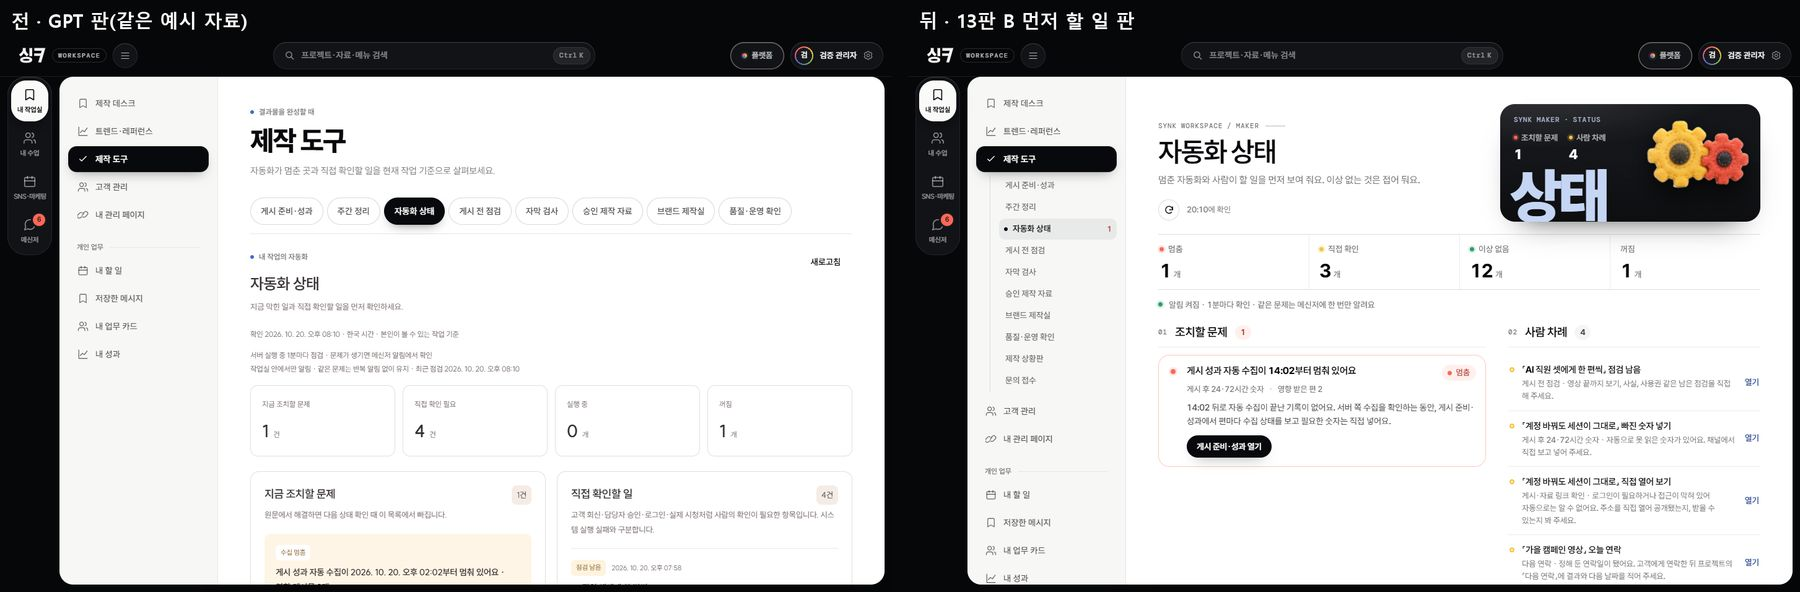
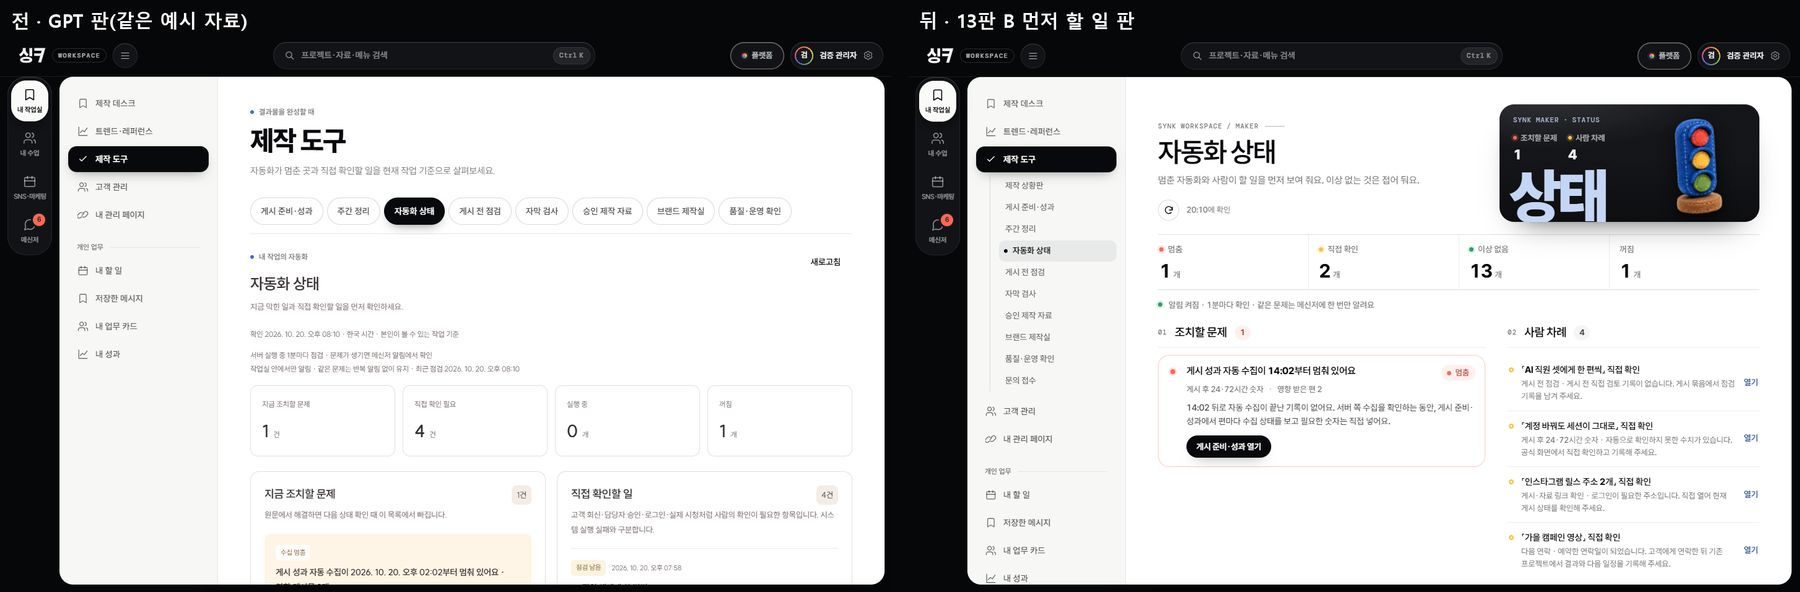
feat(제작 도구 13판): 자동화 상태 펠트를 톱니에서 신호등으로 다시 굽고, 톱니 전용 포스터 칸을 걷는다
- 유호님 10-21 완성 사진에 「오우 훨씬 좋아」, 「톱니펠트그림은 다시 굽고」. 톱니는 「설정」으로 읽혔다(13판 시안 Fable P3)
- 신호등 · 계기 바늘 · 신호탑 · 제어반을 GPT 이미지 2.5로 흰 바탕 한 판(2×2, 앞 8장 판을 생김새 참고)에 굽고 tools/펠트_흰바탕오리기.py --판=2x2로 오려 신호등을 골랐다(215×440, 34,726B). 세 등 색(위부터 코랄 · 버터 · 초록)이 계기판 점 색(멈춤 · 직접 확인 · 이상 없음)과 같다. 제어반은 손잡이가 조이스틱처럼 나와 뺐다
- maker-tools.css: 넓은 톱니에 맞춘 자동화 전용 포스터 칸 넷(포스터 · 지금 할 일 · 860px · 700px 지금 할 일 선택자)을 걷어 다른 탭과 같은 기본 칸을 쓰고, 아르곤 P3대로 700px 포스터 줄의 쓸모없어진 top:auto · object-position을 뺐다(승인 제작 자료 덮어쓰기를 이기는 두 번째 선택자는 남김)
- 문서: SOURCES.md 8장 줄에 바꾼 까닭 · 원판 위치(판3_자동화신호등), 설계 README 13판 절의 물건 목록 · 톱니 줄, 전후 · 휴대폰 사진의 자동화 상태 칸을 신호등 판으로, 트랙 13판 줄(GPT 검수 결과 · 운영 이력 23 대기 · 신호등) · 결정 표 근거
- GPT 검수(13판 서버 13파일 · 시험 24파일, 본 계정): 「그대로 운영 반영해도 됨, 지적 없음」. 두 탭 서버 파일은 2차 검수 진행 중
- 확인: 네 폭(1440 · 1024 · 820 · 390) 콘솔 오류 · 가로 넘침 0, 그림이 숫자 · 큰 글자와 겹치지 않음(실측), 관련 회사 시험 300/300. 검수 아르곤 P3 1(반영) · Fable 최종 「사용자에게 보여도 됨」(P3 2 중 문서 줄 반영, 넓은 화면 오른쪽 여백은 그대로)
- 운영 반영은 아직 안 함 — 유호님 「올려」(10-21 11:4x)로 회사 HA 이력 23에 줄 섬(22 armed 뒤)

diff --git a/docs/마케팅/온라인마케팅지도/engagement/company/public/maker-tools.css b/docs/마케팅/온라인마케팅지도/engagement/company/public/maker-tools.css
@@ -83,7 +83,6 @@
 :root .synk-workspace .mt .mt-poster-stats dd{font-size:22px;line-height:1;font-weight:var(--w-title);letter-spacing:-.02em;color:#fff;white-space:nowrap}
 :root .synk-workspace .mt .mt-poster-word{position:absolute;left:16px;bottom:-.02em;z-index:2;font:900 96px/.9 SUIT,var(--mt-sans);letter-spacing:-.065em;color:var(--mt-on-face);pointer-events:none;user-select:none;white-space:nowrap}
 :root .synk-workspace .mt .mt-poster-art{position:absolute;right:20px;bottom:12px;z-index:3;display:block;width:160px;height:156px;object-fit:contain;object-position:50% 100%;transform:rotate(-3deg);filter:drop-shadow(0 18px 18px rgba(0,0,0,.5)) drop-shadow(0 4px 6px rgba(0,0,0,.35));pointer-events:none;user-select:none}
-:root .synk-workspace .mt .mt-poster[data-mt-poster=automation] .mt-poster-art{right:18px;bottom:auto;top:24px;width:166px;height:112px;object-position:100% 0}
 :root .synk-workspace .mt .mt-poster[data-mt-poster=sources] .mt-poster-art{width:176px;height:150px}
 
 /* ── 단추 · 링크 ── */
@@ -355,7 +354,6 @@
 :root .synk-workspace .mt .mt-now.is-poster .mt-actions .mt-link{color:var(--mt-on-face)}
 :root .synk-workspace .mt .mt-now.is-poster .mt-now-word{position:absolute;right:14px;bottom:-.06em;z-index:1;font:900 92px/.9 SUIT,var(--mt-sans);letter-spacing:-.065em;color:var(--mt-on-face);pointer-events:none;user-select:none;white-space:nowrap}
 :root .synk-workspace .mt .mt-now.is-poster .mt-now-art{position:absolute;right:34px;bottom:74px;z-index:2;width:112px;height:98px;object-fit:contain;object-position:50% 100%;transform:rotate(-3deg);filter:drop-shadow(0 14px 14px rgba(0,0,0,.5)) drop-shadow(0 3px 5px rgba(0,0,0,.35))}
-:root .synk-workspace .mt .mt-now.is-poster[data-mt-poster=automation] .mt-now-art{width:136px;height:94px}
 
 /* ── 입력 칸 ── */
 :root .synk-workspace .mt .mt-form{display:grid;gap:14px}
@@ -419,7 +417,6 @@
 /* ── 좁을 때 ── */
 @container mt (max-width:860px){
   :root .synk-workspace .mt .mt-desk{--mt-list-w:262px}
-  :root .synk-workspace .mt .mt-poster[data-mt-poster=automation] .mt-poster-art{width:128px;height:88px}
   :root .synk-workspace .mt .mt-head{grid-template-columns:minmax(0,1fr) minmax(250px,340px)}
   :root .synk-workspace .mt .mt-poster-word{font-size:80px}
   :root .synk-workspace .mt .mt-poster-art{width:140px;height:132px}
@@ -442,7 +439,7 @@
   :root .synk-workspace .mt .mt-poster-stats{left:16px;top:36px;gap:14px}
   :root .synk-workspace .mt .mt-poster-stats dd{font-size:19px}
   :root .synk-workspace .mt .mt-poster-word{left:12px;font-size:52px}
-  :root .synk-workspace .mt .mt-poster-art,:root .synk-workspace .mt .mt-poster[data-mt-poster] .mt-poster-art{right:12px;bottom:10px;top:auto;width:96px;height:96px;object-position:50% 100%}
+  :root .synk-workspace .mt .mt-poster-art,:root .synk-workspace .mt .mt-poster[data-mt-poster] .mt-poster-art{right:12px;bottom:10px;width:96px;height:96px}
   :root .synk-workspace .mt .mt-meter{margin-bottom:20px}
   :root .synk-workspace .mt .mt-meter>*{padding:10px 6px 11px 9px;gap:7px}
   :root .synk-workspace .mt .mt-meter>:first-child{padding-left:0}
@@ -481,7 +478,7 @@
   :root .synk-workspace .mt .mt-now.is-poster .mt-now-copy{padding-right:92px}
   :root .synk-workspace .mt .mt-now.is-poster h3{font-size:17.5px}
   :root .synk-workspace .mt .mt-now.is-poster .mt-now-word{display:none}
-  :root .synk-workspace .mt .mt-now.is-poster .mt-now-art,:root .synk-workspace .mt .mt-now.is-poster[data-mt-poster=automation] .mt-now-art{top:16px;right:14px;bottom:auto;width:84px;height:74px}
+  :root .synk-workspace .mt .mt-now.is-poster .mt-now-art{top:16px;right:14px;bottom:auto;width:84px;height:74px}
   :root .synk-workspace .mt .mt-steps li{font-size:0}
   :root .synk-workspace .mt .mt-steps li[data-s=now]{font-size:12px;overflow:visible}
   :root .synk-workspace .mt .mt-steps li[data-s=now]:last-child{align-items:flex-end}

diff --git a/docs/_ops/트랙.md b/docs/_ops/트랙.md
@@ -213,7 +213,7 @@
   - **마케팅·설정·SNS 남은 글 다시 쓰기(10-20~21, Claude · origin 반영, 운영 반영 전):** 회사 `app.js`의 마케팅 현황·하이라이트·분석·채널과 수집·연결 창·담당자 바꾸기·팀과 크루·설정 글과 `social-workspace.js`에 남은 ID·큐·슬롯·Postiz·CSV·UTM, `benchmark.js`(사람·AI 도구 이름)·`comparison-charts.js`를 짝 621개로 바꿨다(app.js 합니다체 60·「이관」 15·OAuth·API·CSV 12 → 0). 채널 카드 「이력」이 없는 함수를 불러 오류만 띄우던 것을 「담당 기록」 서랍으로 되살렸다. 아르곤 49건(반영 38·부분 3) · Fable 23건(P0·P1 0, 반영 15 · 재확인 「그대로 두면 됨」), 회사 4,054개·루트 2,136개 코드 탓 실패 0, 합성 계정 1440·390 전후 34쌍·70화면 오류·넘침 0 — [README](../디자인/워크스페이스_시그널/README.md#marketing-copy-20261020), 맵·검수 기록 `.tmp/marketing-copy-20261020/`. 꼬리 정리 커밋 `f81c24989`(SNS 합본·PULSE 자동 안내)가 먼저 들어와 그 위에 맵을 다시 돌려 얹었다. **GPT 검수 범위(백엔드, `e9eb56419`와 Fable 반영 커밋):** 회사 `collectors.mjs`·`collection-policy.mjs`·`server.mjs`·`oauth.mjs`·`organization.mjs`·`store.mjs`·`hype.mjs`·`meta-connection.mjs`·`team-trends.mjs`·`demo-service.mjs`·`benchmarks.mjs`·`social-ai-copy.mjs`·`social-publishing-provider.mjs`·`social-provider.mjs`·`social-replies.mjs` — 화면에 뜨는 오류·상태·안내 글만(짝 221, API 모양·키·상태값·기록에 남는 사유 값 그대로), 운영 반영 안 함. 남은 일: 같은 마케팅 현황의 `growth-home.js`·`growth-history.js`·`team-trends.js`(와 `team-trends.mjs` 표 설명) 본문 낱말(관측·당일·미수집)을 이번 글에 맞추기.
   - **트렌드·레퍼런스·제작 데스크 글 다시 쓰기(10-20, Claude · 백엔드 일부 — GPT 검수 대기, 운영 반영 안 함):** 화면 5파일(`creative-research.js`·`workroom.js`·`content.js`·`studio-board.js`·`studio-review.js`)의 보이는 글 441조각(합니다체 116 → 2)과 같은 화면에 뜨는 서버 글 147조각·「제작 기준」 자료 22문장을 옛→새 짝 17묶음으로 바꿨다 — 회사 시험 3,970개 중 실패 3(워크트리에 없는 git 밖 큰 영상 2개 탓, 코드 탓 0)·루트 2,149/2,149, 1440·390 42화면씩 전후 오류·넘침 0, 아르곤 34건(반영 21)·Fable 30건(반영 29) — [README](../디자인/워크스페이스_시그널/README.md#workroom-copy-20261020). **GPT 검수 범위(같은 커밋):** 회사 `creative-research-sync.mjs`·`creative-research.mjs`·`trend-collectors.mjs`·`daily-trends-service.mjs`·`studio-service.mjs`·`studio-media.mjs`·`content-service.mjs`의 오류·상태 글, `workroom-guide.json`(팁·트렌드 링크·공식 보고서 요약), 시험 `creative-research.test.mjs` — API·코드·한도 그대로이고 참고 자료 조회 404 글만 갈렸다. 남은 것: GPT 가지 `codex/business-automation-20261020` 병합 때 `creative-research.js` 210~212행 충돌 → 짝 01·12·13·14 다시 넣기와 GPT 새 글 다시 쓰기([글짝 README](../디자인/워크스페이스_시그널/글짝_20261020/README.md)), 기획 엔진 글(`content-engine.mjs`·`content-catalog.json`·`benchmark.js`)과 `studio.js` 머리 문장은 후속.
   - **기획 엔진 글 다시 쓰기(10-21, Claude · 백엔드 — GPT 검수 대기, 운영 반영 안 함):** 기획 결과·내려받기 기획안·「제작 기준」 창·데스크 「유형별 기획 양식」의 GPT 글을 옛→새 짝 311개(18~24)로 해요체로 바꿨다 — 엔진 글 「~니다」 505 → 0, 합성 계정 1440·390 29화면 842 → 0(오류·넘침 0), 회사 시험 4,117개 중 실패 3(git 밖 큰 영상 부재, 코드 탓 0)·루트 2,138개 중 실패 1(형제 저장소 SYNK-talk와 갈라진 계약 파일, 이번 변경과 무관), 아르곤 21건(반영 18·일부 3)·Fable 12건(반영 11·확인 1) — [README](../디자인/워크스페이스_시그널/README.md#planning-engine-copy-20261021). **GPT 검수 범위(같은 커밋):** 회사 `content-engine.mjs`·`content-catalog.json`·시험 `content-engine.test.mjs` — API·저장 모양·상태 값 그대로, 바뀐 동작은 받침 조사 꼴·내려받기의 반응 이름과 빈 칸 「안 적음」·참고 분석 「 / 」 잇기·`applyContext`의 쓰지 않는 인자 하나. 이미 저장한 기획안은 옛 글로 남는다(새로 만들거나 「고쳐서 새로 만들기」부터 새 글).
-  - **제작 도구 8탭 13판 — 탭 성격대로 다시 그리기·글(10-20~21, Claude · origin 반영, 운영 반영 전 · 서버 글은 GPT 검수 대기):** 유호님이 고른 「탭 성격대로」로 바꿨다. 편·기록 4탭(게시 준비·성과 · 게시 전 점검 · 브랜드 제작실 · 품질·운영 확인)은 목록+상세, 자동화 상태 · 주간 정리는 먼저 할 일 판, 자막 검사 · 승인 제작 자료는 도구 한 장이다. 넓은 화면은 왼쪽 메뉴 「제작 도구」 아래 하위 줄로 바꿨고, 펠트 물건 8장을 굽고, 화면 「~합니다」를 0으로 만들었다([13판](../디자인/워크스페이스_시그널/README.md#maker-tools-v13-20261020)). 회사 시험 실패는 기준선과 같은 PULSE 큰 파일 셋과 회사 폴더 경로 함정의 content-engine 하나뿐이고, 루트 시험은 모두 통과했다. 8탭 1440·390 전후 촬영은 오류·넘침 0이다. 검수는 아르곤 55건(반영 44) · Fable 최종 「보여도 됨, P1 없음」(P2 7 중 6 반영·1 오탐)이다. **GPT 검수 범위(백엔드):** 같은 커밋의 서버 12파일 글(옛→새 짝 맵 — automation-health · weekly-summary · publication-workflow · publication-link-check · post-performance · publication-learning · publication-inbox · publication-review · publication-package · brand-quality-service · creator-reviews · creator-sources)과 시험 짝 14파일이다. API 모양·키·상태값은 그대로이고, `publication-link-check`의 저장되는 확인 글 둘도 해요체로 바꿨다(옛 기록은 다음 확인 때 바뀜). 운영 반영은 안 했다(회사 HA 릴리스로 따로, 유호님 「올려」 뒤). 뒤따름(10-21): 손으로 돌리는 브라우저 점검 `qa/verify-automation-stale-warning.mjs`·`qa/verify-workspace-repaint.mjs`·`qa/verify-deeplink-focus.mjs`를 새 판 구조로 바꿔 9/9 · 13/13 · 5/5 통과했다(깊은 링크는 13판 기록 양식이 900px 첫 화면 안이라 700px로 낮춰 스크롤 유지를 본다). 서버 안내 글 세 곳(`automation-health.mjs` 성과 수집 안내)이 가리키던 옛 하위 탭 「게시 후 성과」를 「게시 준비·성과」로 고쳤고(같은 GPT 검수 범위), 게시 전 점검 9칸 질문(`workroom-guide.json`, 「~한가?」)을 해요체로 맞췄다(기록은 id로만 묶여 있어 그대로, 같은 「기획·검토 양식」 복사의 「잴 지표·조건」 줄도 「확인할 지표·조건」으로). 두 탭 더(10-21, Claude · origin 반영, 운영 반영 전): 사업 자동화가 더한 「제작 상황판」·「문의 접수」를 같은 문법(둘 다 목록+상세)으로 다시 그렸다. 제작 상황판은 검토실(버전 · 의견)을 상세 안으로 넣어 맨 앞에, 문의 접수(관리자만)는 맨 끝에 뒀고 펠트 2장(감독 의자 · 호출 종)을 구웠다([두 탭](../디자인/워크스페이스_시그널/README.md#maker-tools-v13-two-tabs-20261021)). 확인·검수: 관련 회사 시험 1,861개 중 1,860 통과(실패 1은 기준선과 같은 PULSE 영상 파일), 회사 전체 · 루트 실패는 기준선과 같은 것과 한꺼번에 돌릴 때만 나는 셋뿐, 브라우저 점검 셋 통과, 1440 · 390 촬영 17장 오류 · 넘침 0. 검수는 아르곤 42건(반영 38) · Fable 최종 「보여도 됨」(P2 4 · P3 6 반영). **GPT 검수 범위(백엔드):** 같은 커밋의 `website-inquiry-service.mjs` · `website-inquiry-google.mjs` · `studio-service.mjs` 관리자 화면 글 53문장(분류 근거 · 다음 할 일 · 오류, 시험 짝은 HEAD 문장 → 지금 문장), 저장된 옛 분류 글을 보일 때만 새 글로 바꾸는 `websiteInquiryClassificationView`, 시험 짝 `website-inquiry.test.mjs`다. API 모양 · 상태값 · 고객용 답장 초안 · 양식 동의 문장은 그대로다. 두 탭에서 뒤따를 것: 8탭 공통으로 휴대폰에서 접힌 구역 요약이 숨는 규칙(`maker-tools.css`) 다시 보기, 기획 화면 팀 예시(`swExamplesPage`)의 글 · 단추. 남은 것: 톱니 펠트 다시 굽기 후보(유호님이 보고 정할 일).
+  - **제작 도구 8탭 13판 — 탭 성격대로 다시 그리기·글(10-20~21, Claude · origin 반영 · 운영은 회사 HA 이력 23 대기(유호님 「올려」 10-21 11:4x) · 서버 글 GPT 검수: 8탭 끝, 두 탭 진행 중):** 유호님이 고른 「탭 성격대로」로 바꿨다. 편·기록 4탭(게시 준비·성과 · 게시 전 점검 · 브랜드 제작실 · 품질·운영 확인)은 목록+상세, 자동화 상태 · 주간 정리는 먼저 할 일 판, 자막 검사 · 승인 제작 자료는 도구 한 장이다. 넓은 화면은 왼쪽 메뉴 「제작 도구」 아래 하위 줄로 바꿨고, 펠트 물건 8장을 굽고, 화면 「~합니다」를 0으로 만들었다([13판](../디자인/워크스페이스_시그널/README.md#maker-tools-v13-20261020)). 회사 시험 실패는 기준선과 같은 PULSE 큰 파일 셋과 회사 폴더 경로 함정의 content-engine 하나뿐이고, 루트 시험은 모두 통과했다. 8탭 1440·390 전후 촬영은 오류·넘침 0이다. 검수는 아르곤 55건(반영 44) · Fable 최종 「보여도 됨, P1 없음」(P2 7 중 6 반영·1 오탐)이다. **GPT 검수 범위(백엔드):** 같은 커밋의 서버 12파일 글(옛→새 짝 맵 — automation-health · weekly-summary · publication-workflow · publication-link-check · post-performance · publication-learning · publication-inbox · publication-review · publication-package · brand-quality-service · creator-reviews · creator-sources)과 시험 짝 14파일이다. API 모양·키·상태값은 그대로이고, `publication-link-check`의 저장되는 확인 글 둘도 해요체로 바꿨다(옛 기록은 다음 확인 때 바뀜). **GPT 검수(10-21, 본 계정 · 위 13파일과 시험 24파일, 뒤따름 포함):** 「그대로 운영 반영해도 됨, 지적 없음」 — 옛·새 글을 저장소 전체에서 찾아 소비자를 보고, 저장되는 확인 글과 알림 중복은 메모리 저장소로 따로 돌려 확인했다(시험 489 통과, 못 돈 3은 검수 사본에 `tools/lib`가 없던 탓). 보고에 적힌 「`${max}`가 빠진 길이 오류 글 두 곳」(`publication-inbox`·`publication-package`)은 화면 입력칸이 같은 한도로 막고 있어 그대로 둔다(Claude 확인). 운영 반영: 유호님 「올려」(10-21 11:4x) — 회사 HA **이력 23**으로 줄 섰다(18 → 22 뒤, 22 armed 전 원격 0, `.tmp/company-ha-release-order-20261020.md` 「이력 23」). 뒤따름(10-21): 손으로 돌리는 브라우저 점검 `qa/verify-automation-stale-warning.mjs`·`qa/verify-workspace-repaint.mjs`·`qa/verify-deeplink-focus.mjs`를 새 판 구조로 바꿔 9/9 · 13/13 · 5/5 통과했다(깊은 링크는 13판 기록 양식이 900px 첫 화면 안이라 700px로 낮춰 스크롤 유지를 본다). 서버 안내 글 세 곳(`automation-health.mjs` 성과 수집 안내)이 가리키던 옛 하위 탭 「게시 후 성과」를 「게시 준비·성과」로 고쳤고(같은 GPT 검수 범위), 게시 전 점검 9칸 질문(`workroom-guide.json`, 「~한가?」)을 해요체로 맞췄다(기록은 id로만 묶여 있어 그대로, 같은 「기획·검토 양식」 복사의 「잴 지표·조건」 줄도 「확인할 지표·조건」으로). 두 탭 더(10-21, Claude · origin 반영, 운영 반영 전): 사업 자동화가 더한 「제작 상황판」·「문의 접수」를 같은 문법(둘 다 목록+상세)으로 다시 그렸다. 제작 상황판은 검토실(버전 · 의견)을 상세 안으로 넣어 맨 앞에, 문의 접수(관리자만)는 맨 끝에 뒀고 펠트 2장(감독 의자 · 호출 종)을 구웠다([두 탭](../디자인/워크스페이스_시그널/README.md#maker-tools-v13-two-tabs-20261021)). 확인·검수: 관련 회사 시험 1,861개 중 1,860 통과(실패 1은 기준선과 같은 PULSE 영상 파일), 회사 전체 · 루트 실패는 기준선과 같은 것과 한꺼번에 돌릴 때만 나는 셋뿐, 브라우저 점검 셋 통과, 1440 · 390 촬영 17장 오류 · 넘침 0. 검수는 아르곤 42건(반영 38) · Fable 최종 「보여도 됨」(P2 4 · P3 6 반영). **GPT 검수 범위(백엔드):** 같은 커밋의 `website-inquiry-service.mjs` · `website-inquiry-google.mjs` · `studio-service.mjs` 관리자 화면 글 53문장(분류 근거 · 다음 할 일 · 오류, 시험 짝은 HEAD 문장 → 지금 문장), 저장된 옛 분류 글을 보일 때만 새 글로 바꾸는 `websiteInquiryClassificationView`, 시험 짝 `website-inquiry.test.mjs`다. API 모양 · 상태값 · 고객용 답장 초안 · 양식 동의 문장은 그대로다(GPT 2차 검수 진행 중). 두 탭에서 뒤따를 것: 8탭 공통으로 휴대폰에서 접힌 구역 요약이 숨는 규칙(`maker-tools.css`) 다시 보기, 기획 화면 팀 예시(`swExamplesPage`)의 글 · 단추. 신호등(10-21): 유호님이 완성 사진을 보고 「오우 훨씬 좋아」, 「톱니펠트그림은 다시 굽고」 — 자동화 상태 톱니(「설정」으로 읽힘)를 신호등으로 다시 구웠다(같은 방법 2×2 후보 넷 중 하나, 세 등 색이 계기판 점 색과 같음). `maker-tools.css`에서 톱니에 맞춘 자동화 전용 포스터 칸 넷을 걷어 기본 칸을 쓰고, 설계 README 전후 · 휴대폰 사진의 그 칸도 바꿨다. 아르곤 P3 1(반영) · Fable 「보여도 됨」(P3 2 중 문서 줄 반영), 네 폭(1440 · 1024 · 820 · 390) 오류 · 넘침 0.
   - **고객 상담 `/consultation/` 시그널 판(10-20~21, Claude · 유호님 선택 A · origin 반영, 운영 반영 전 · 서버 쪽 GPT 검수 대기):** 10-09 GPT 펠트 스크랩북 판(글 99/99 GPT)을 synk.im 컴퓨터 추천의 시그널 「한 장 상담 판」(왼쪽 하는 일 → 글로 쓰기 → 질문 하나씩 → 저장, 오른쪽 포스터가 요약 판으로 바뀌어 따라옴)으로 다시 그리고 글을 모두 새로 썼다(기능·서버 계약 그대로, 물건 셋은 GPT 이미지 2.5로 새로 굽고 질문 물건 11개는 synk.im 것). 회사 시험 코드 탓 실패 0·상담 6파일 164/164, 가짜 SYNK ID·AI 합성 서버로 1440·390 전체 흐름 120/120, 아르곤 25건(반영 20)·Fable 17건(반영 15, P0·P1 없음, 재확인 「그대로」). GPT 검수 범위: `company/server.mjs` `/consultation/` 파일 표, `Dockerfile`·`Dockerfile.dockerignore`(맞춤도구 그림 COPY), `container-delivery.test.mjs` 상담 자산 목록 — API·상태 모듈 변경 없음. 운영은 회사 HA 릴리스(「올려」 뒤). 후속 후보(벤치마킹): 카드 선택 「다음」·답한 질문 줄 + 뒤로 가기·바뀐 사양 강조. [README](../디자인/워크스페이스_시그널/README.md#consultation-signal-20261020)
 
 - **직원 음성 통화(10-17 · 1·2·3차와 백엔드 점검 로컬 완료):** 기존 상태/복구/방 권한/UTC 사용량과 초대/수락/방해 금지에 화면 공유 슬롯1개·화면 소리 별도 허용/철회, E2EE 필수 준비·RAM 키·참가자 변경 시 미디어 일시 중단/키 교체를 추가했다. 후속 점검에서 공유 중지/권한 철회·퇴장/취소·기한 경과 뒤 토큰 발급 경합, 취소 요청 재전송, 키 준비 상태와 점검 대기열 누적을 고쳤다. SYNK 서버를 신뢰하는 키 관리이며 SDK Room/worker 재준비가 필요하다. 통화·알림/푸시·회귀202/202·Docker 정적 전달1/1. 운영 기본 꺼짐·운영 반영 없음. 별도 시험 Cloud/HTTPS와 실제 미디어 관측은 아래 기록을 따른다. [계약](../../tools/company-messenger/API.md#직원-음성-통화-백엔드--2026-10-17-로컬) · [검증](../../tools/company-messenger/QA.md#직원-음성-통화-백엔드--2026-10-17-로컬) · [조사](../마케팅/온라인마케팅지도/engagement/company/WORKSPACE.md#discord-backend-study-20261017). 화면·SDK(10-17 Claude): 통화·공유·초대·설정 화면, 메뉴 이동에도 남는 iframe·미니 조작, E2EE worker·키 교체, 마이크·화면 캡처 정책을 연결했다. 통화 화면 시험21/21·회귀785/786(HEAD에서도 실패하는 1건), Fable 검수 지적5건 반영, 한 PC의 두 브라우저 세션으로 실제 Cloud 음성 복호화·화면·화면 소리·키 교체·메뉴 이동·새로고침 복구·로그아웃 회수 확인. [화면·SDK 검증](../../tools/company-messenger/QA.md#통화화면-공유-화면과-sdk-연결--2026-10-17). 10-18 Claude: 로컬 HTTPS에서 내장 메신저·메뉴 이동 중 통화 유지, 브라우저 공유 중지 이벤트, worker 실패 때 평문 미연결을 실제 Cloud로 확인했다. 키 교체 중 참가자 구성이 다시 바뀌면 기존 참가자가 `encryption_pause_failed`로 끝나는 백엔드 문제(P1)를 재현했다. **10-18 GPT 수정:** 정지 완료를 새 JWT 전까지 보존하고 부재404는 명시적 토큰 철회로 대체하며 새 JWT는 철회 시각 경계를 지난 뒤 발급한다. 백엔드105/105·클라이언트22/22, 초기 연결 보완 포함190/190. 실제 회사 HTTP→Cloud에서 A ACK→B의8초 대기 후 퇴장에도 같은 A 유지·중복 정지 없음·다음 JWT 뒤 C 참가 시 재정지와 정상 정리를 확인했다([수정·근거](../../tools/company-messenger/QA.md#발견한-백엔드-문제--gpt-인계p1)). 실제 SDK 후속도 통과: B worker8.077초 실패/자동 퇴장 전 A의 새 키 ACK·Cloud 부재를 재현했고,1.585초 뒤 같은 A가 ACTIVE/화면 connected로 복구했다. 재참가·중복 정지·강제 종료0,74초 이상 유지·정리 대기0. 10-18 Claude가 수정 후 두 사람·세 사람 실제 Cloud 재현과 HTTPS 메뉴 이동 통화를 다시 통과시켰다. 남음: 서로 다른 두 실제 기기·다른 망·이전 키 차단, 옛 JWT의 실제 연결 거절·사용량 대조, 운영 반영 판단.

diff --git a/docs/_ops/결정.md b/docs/_ops/결정.md
@@ -18,7 +18,7 @@
 | 2026-10-21 | 확정 | [PULSE · 1차 다섯 명 목소리 · 유호님] 소연 미경, 민재 태섭, 은정 미선, 채원 아린, 준호 영걸(모두 타입캐스트, 모델마다 톤 셋)로 확정한다. 10-20에 타입캐스트 218개를 같은 문장으로 굽고 들리는 나이·밝기·활기·무게감·호감을 재서 고른 측정 기본값 그대로이고, 귀 확인 페이지에서 따로 고르는 단계는 거치지 않았다. 바꾸려면 명세서 목소리 칸의 「다른_후보」에서 고른다. | 유호 「1차 다섯 명 목소리는 측정으로 고른 기본값(소연 미경·민재 태섭·은정 미선·채원 아린·준호 영걸)으로 확정해줘」 10-21 |
 | 2026-10-21 | 안전 | [GitHub · synk-appsscript 공개 검사 · 커밋 도구 · 적용] `tools/바로올리기.js`·`tools/내커밋.js`(커밋·올리기)가 저장 용량 검사 옆에서 `tools/공개검사.js`를 돌린다. 올라갈 변경의 더한 줄과 커밋 메시지만 훑어 주민번호 꼴(외국인등록번호 포함)·휴대폰(010~019, 몽골 +976 휴대폰 대역)·개인 메일(개인 메일 서비스·학교 도메인만)·특허청 명세서 칸·비공개 표시·명단 꼴 표 머리, 명단·상담 기록·특허 이름의 자료·문서 파일이 나오면 미리 보기와 `--실행` 모두 아무것도 올리지 않고 파일·줄·이유를 가린 값으로 보인다. 변경 종류마다 통과 규칙을 달리 둔다(Antique식) — 커밋 메시지는 값 규칙만, 바이너리·PDF는 이름만, 유선·대표번호·회사·서비스 도메인·역할 계정은 보지 않는다(재생에서 모두 기관·업무 연락처였다). 허용은 값을 적지 않는다: 예시 꼴, 같은 파일 바탕 판이나 지금 origin 트리에 이미 있는 값(대표 본인 계정처럼 공개 판단이 끝난 값 — 10-17·10-20에 파일에서 뺀 값은 다시 넣으면 걸림), 줄 표식 「공개허용」, `tools/공개검사_허용.json`의 경로·규칙·까닭(특허 작업 폴더 10-20 결정, Steam 공개 앱 정보 원본, 울란바토르 현지조사 기관 번호). 정책 파일이 있는 저장소에서만 돈다. 재생(10-14~10-21 origin/master 커밋 997개·더한 줄 96만 줄): 걸린 커밋 2개 — 10-18 대표 Microsoft 계정이 처음 들어온 커밋과 그 PR 충돌 정리 커밋(대표 본인 새 계정도 처음 나갈 때는 멈춘다, 줄 표식으로 넘김), 숫자열·파일 이름 오탐 0. HEAD 전수(27,127파일): 대표·회사 계정 261곳(10-20 「둠」)뿐이라 뺀 값 0. 제공사 키는 GitHub push 보호가 막고, 비제공사 패턴 설정은 바꾸지 않았다. 함정·다시 재는 법은 [현장 노트](../현장노트/git_줄끝_잠금.md#바로올리기내커밋이-공개-검사로-멈춘다--더한-줄에-공개-저장소에-처음-나가는-개인정보-꼴이-있다-2026-10-21-claude). Scion(Anthropic 사내 버전 관리, 10-13 공개) 전환은 하지 않는다. 비공개이고, 규모가 100배 차이 나고(origin/master 하루 최대 298커밋, 10-20), 바로올리기와 push 뒤 CI가 이미 같은 방식(바로 합치기 → 합친 뒤 시험 → 깨지면 바로 고치기)이다. 이 검사는 Antique의 변경 종류별 규칙에서 따왔다. | 유호님 10-21 「웅 그럼 이건 스킵하자. 좋은 판단 고마워.」(Scion 전환을 하지 않기로) · 10-21 Scion·Antique 검토 세션의 후속(공개 저장소 10-19, AGENTS.md 「비밀값·학생 정보·미공개 특허 내용·남의 개인정보는 커밋하지 않는다」) — 공개 검사는 Claude 판단(AI 운영원칙 「비용과 권한」 보안 잡일 위임). 시험 `node --test tests/바로올리기.test.js tests/내커밋.test.js` |
 | 2026-10-21 | 확정 | [WORLD TOPIK II 쓰기 · 보류 4 재검수 비용·자동 피드백 운영 반영 조건 · 유호님] 보류 4문항(w51-recycle·w51-study·w52-crowd·w54-translation) Opus 재검수 비용 약 $0.2를 승인한다(앞선 「합쳐 1달러 안쪽」을 조금 넘음, 세션 ②가 writing-d97fd97 묶음 한 번). 쓰기 자동 피드백 운영 반영(talk 함수 world-writing 배포 · 전용 키 WORLD_WRITING_ANTHROPIC_API_KEYS · SYNK_WORLD_WRITING_ENABLED 켜기)은 결제 수단 없는 조직의 새 키가 오면 그 키로 하고, 그때까지 꺼 둔다. unmet23 조직 키(결제 수단이 붙은 조직)는 쓰지 않는다(10-18 규칙). | 유호님 「승인할게」(10-21, ③ 세션과 부모 세션 질문 (3)·(4)에 대한 답) |
-| 2026-10-21 | 확정 | [화면 · 제작 도구 8탭 13판 · 유호님 선택 · 적용(origin, 운영 전)] 제작 도구 탭은 머리 한 벌(모노 눈썹 · 44px 탭 이름 · 한 줄 설명 · 단추 · 1px 계기판) 아래 탭 성격대로 짠다 — 편·기록 탭(게시 준비·성과 · 게시 전 점검 · 브랜드 제작실 · 품질·운영 확인)은 A 목록+상세(10판 고객 관리 문법), 현황 탭(자동화 상태 · 주간 정리)은 B 먼저 할 일 판(12판 운영 현황 문법), 도구 한 장(자막 검사 · 승인 제작 자료)은 번호 구역만. 넓은 화면은 왼쪽 메뉴 「제작 도구」 아래 하위 줄로 고르고 화면 안 캡슐은 700px 이하·메뉴를 접었을 때만 둔다. 「지금 할 일」은 내 차례일 때만 워크스페이스 면 포스터(그 탭의 펠트 물건 + 큰 두 글자 + 흰 알약)다. 게시 숫자 칸은 서버 값으로 네 갈래(숫자 · 직접 넣기 · MM-DD에 와요 · —)를 가른다. | 유호님 10-20 21:2x 「a,b 둘다 좋아. 그럼 탭 성격대로 니 추천대로 진행할게」(비교 페이지 1번). 시안 3판 Fable 「보여도 됨」, 실구현 아르곤 55건(반영 44)·Fable 최종 「보여도 됨, P1 없음」. 설계는 docs/디자인/워크스페이스_시그널/README.md 13판 절. |
+| 2026-10-21 | 확정 | [화면 · 제작 도구 8탭 13판 · 유호님 선택 · 적용(origin, 운영은 회사 HA 이력 23 대기)] 제작 도구 탭은 머리 한 벌(모노 눈썹 · 44px 탭 이름 · 한 줄 설명 · 단추 · 1px 계기판) 아래 탭 성격대로 짠다 — 편·기록 탭(게시 준비·성과 · 게시 전 점검 · 브랜드 제작실 · 품질·운영 확인)은 A 목록+상세(10판 고객 관리 문법), 현황 탭(자동화 상태 · 주간 정리)은 B 먼저 할 일 판(12판 운영 현황 문법), 도구 한 장(자막 검사 · 승인 제작 자료)은 번호 구역만. 넓은 화면은 왼쪽 메뉴 「제작 도구」 아래 하위 줄로 고르고 화면 안 캡슐은 700px 이하·메뉴를 접었을 때만 둔다. 「지금 할 일」은 내 차례일 때만 워크스페이스 면 포스터(그 탭의 펠트 물건 + 큰 두 글자 + 흰 알약)다. 게시 숫자 칸은 서버 값으로 네 갈래(숫자 · 직접 넣기 · MM-DD에 와요 · —)를 가른다. | 유호님 10-20 21:2x 「a,b 둘다 좋아. 그럼 탭 성격대로 니 추천대로 진행할게」(비교 페이지 1번). 시안 3판 Fable 「보여도 됨」, 실구현 아르곤 55건(반영 44)·Fable 최종 「보여도 됨, P1 없음」. 10-21 완성 전후 사진에 유호님 「오우 훨씬 좋아」 — 펠트 물건은 탭 뜻이 바로 읽혀야 해서 「설정」으로 읽히던 톱니를 신호등으로 다시 구웠다(「톱니펠트그림은 다시 굽고」), 운영 반영은 「올려」(11:4x)로 회사 HA 이력 23. 설계는 docs/디자인/워크스페이스_시그널/README.md 13판 절. |
 | 2026-10-21 | 확정 | [.tmp 운영 · 한 달 정리 목록 묶어 보이기 · 유호님 선택 · 적용] 매달 1일 .tmp 정리 목록을 ① 릴리스·후보 사본(갈래마다 새 판 둘만 남기고 옛 판은 14일이 안 됐어도 후보) ② 마지막 수정이 노트북 이사 복사 날(10-15~17)인 폴더 ③ 그 밖은 이름 앞말로 묶어 보이고 「릴리스 옛 판 정리 · 이사 사본 일괄 · 하나씩」으로 고른다. 계산과 옮기기는 tools/tmp정리목록.js(최근 작업이 경로로 끌어 쓰는 옛 폴더는 뺀다 — 11-01 기준 162개)가 하고, 앱 예약 synk-tmp-monthly-list는 보여 드리고 승인받는 대화만 맡는다(이 도구를 남기는 쪽은 Claude 판단 — 기술 설계, 유호님 위임). | 유호님 10-21 「4번은 웅 니 추천대로 진행할게」 · 2번(남길지 지울지) 장단점은 그 세션 보고 |
 | 2026-10-21 | 확정 | [tools 정리 · 공방 파이프라인 · 유호님 · 적용] 제미나이 4K로 펠트 부품을 굽던 공방 파이프라인(공방굽기·밤굽기·공방뒤처리·공방지면·lib/공방규격)을 통째로 은퇴시켰다(3c4541c7c). 펠트 그림은 10-13 결정대로 GPT 이미지 2.5 판 + tools/펠트판_칸오리기.py로 만든다. 되살리기는 [도구 보관 목록](도구_보관목록.md). | 유호님 10-21 「공방 파이프라인은 통쨰로 은퇴시킬게. 니 말이 맞아」 |
 | 2026-10-21 | 확정 | [메신저 · 오늘 할 일·할 일 상세 3판 · 유호님 선택 · 로컬 반영(운영은 다음 회사 HA 릴리스 「올려」 뒤)] 「내 업무」의 오늘 할 일과 할 일 상세를 3판 뼈대로 바꾼다. 오늘 할 일은 머리 한 줄(큰 숫자·날짜·갱신 시각·새로 고침·추가) 아래 동작 묶음(답할 요청 → 검토할 결과 → 검토자 다시 정하기 → 오늘까지·기한 지남 → 다음 단계)에 두 줄 행과 여는 단추 하나를 두고, 고객·게시 일은 같은 묶음에 출처 칩으로 넣는다. 기다리는 일·나중에 할 일·미뤄 둔 일은 접힌 줄, 기한 겹침은 겹칠 때만, 바닥에 마감 알림의 지금 값과 기준을 둔다. 목록 줄에서는 상태를 바꾸지 않는다. 할 일 상세는 요청(검토·완료 단계는 올린 결과물)을 단추 줄 위에 두고 단계마다 주 단추를 하나 둔다. 수락하기·시작하기·완료는 같은 revision의 기존 할 일 PATCH로 바로 반영하고(10-10 API.md 「클릭만으로 수락·완료를 실행하지 않음」은 이 주 단추만 예외), 수정 요청은 확인 한 번 뒤 바꾸고 원래 대화의 답글 쓰기를 연다. 검토 맡기기·다시 열기·검토자 정하기는 바꾸기 양식을 연다. 묶음 순서는 시안대로 둔다(따로 말씀 없음). | 유호님 10-20 「웅 a로」(A: 오늘 할 일과 할 일 상세를 함께 바꿈) · [조사 17곳](../디자인/워크스페이스_시그널/조사_20261020_오늘할일.md) · Fable 시안 검수(고쳐서 채택 → 3판 P0 없음) · 구현 검수 아르곤 16건(반영 13)·Fable 「고쳐서 통과」 8건(반영 8, 반영 확인) · 서버 코드 그대로, API.md 해당 절은 문서라 GPT 검수 범위 |

diff --git a/tools/company-messenger/public/assets/SOURCES.md b/tools/company-messenger/public/assets/SOURCES.md
@@ -35,5 +35,5 @@
 - 2026-10-02 작업실 AI 업무 연습: `felt-ui/slab-cream-long.webp`는 `docs/디자인/펠트부품/assets/ui/slab-cream-long.webp` 원본 복사본이다. 선택 전 업무 타일에 쓴다.
 
 - 2026-10-14 SNS·마케팅 12판 포스터: `sns-felt-{overview,compose,calendar,queue,bulk,accounts,results,inbox,settings}.webp` 9장. 화면마다 그 일을 설명하는 펠트 물건(폰과 하트 · 연필과 메모 카드 · 탁상 달력 · 자명종 · 펼친 사진 카드 · 사원증 · 오르는 막대 · 하트와 답장 화살표 · 플러그와 콘센트)을 GPT 이미지 2.5(ChatGPT 구독 Codex CLI)로 흰 바탕 한 판에 굽고 `Documents/synk-vendor/sns-felt/custom_cut.py`로 오렸다(원판·지시문·스크립트는 같은 폴더). `company/public/social-workspace.js`의 포스터가 `/messenger/assets/sns-felt-<화면>.webp`로 읽는다. [설계](../../../../docs/디자인/워크스페이스_시그널/README.md#signal-v12-sns-20261013)
-- 2026-10-20 제작 도구 8탭 포스터: `maker-felt-{publication,weekly,automation,publish,subtitles,sources,brand,quality}.webp` 8장. 탭마다 그 일을 설명하는 펠트 물건(로켓 · 탭 단 수첩 · 톱니바퀴 · 체크리스트 판 · 자막 단 필름 · 부품 상자 · 팔레트 · 청진기)을 GPT 이미지 2.5(ChatGPT 구독 Codex CLI)로 흰 바탕 한 판(4×2)에 굽고 `tools/펠트_흰바탕오리기.py --판=4x2`로 오려 긴 변 440px로 줄였다(원판·지시문·오린 원본은 `Documents/synk-vendor/maker-felt/`). `company/public/`의 제작 도구 화면이 `/messenger/assets/maker-felt-<탭>.webp`로 읽는다. [설계](../../../../docs/디자인/워크스페이스_시그널/README.md#maker-tools-v13-20261020)
+- 2026-10-20 제작 도구 8탭 포스터: `maker-felt-{publication,weekly,automation,publish,subtitles,sources,brand,quality}.webp` 8장. 탭마다 그 일을 설명하는 펠트 물건(로켓 · 탭 단 수첩 · 톱니바퀴 · 체크리스트 판 · 자막 단 필름 · 부품 상자 · 팔레트 · 청진기)을 GPT 이미지 2.5(ChatGPT 구독 Codex CLI)로 흰 바탕 한 판(4×2)에 굽고 `tools/펠트_흰바탕오리기.py --판=4x2`로 오려 긴 변 440px로 줄였다(원판·지시문·오린 원본은 `Documents/synk-vendor/maker-felt/`). 자동화 상태의 톱니바퀴는 「설정」으로 읽혀 10-21 신호등으로 바꿨다 — 신호등 · 계기 바늘 · 신호탑 · 제어반을 같은 방법으로 흰 바탕 한 판(2×2, 앞 8장 판을 생김새 참고로 넣음)에 굽고 `--판=2x2`로 오려 신호등을 골랐다(215×440, 원판·지시문·오린 원본은 같은 폴더의 `판3_자동화신호등`). `company/public/`의 제작 도구 화면이 `/messenger/assets/maker-felt-<탭>.webp`로 읽는다. [설계](../../../../docs/디자인/워크스페이스_시그널/README.md#maker-tools-v13-20261020)
 - 2026-10-21 제작 도구 두 탭 더: `maker-felt-{productions,inquiries}.webp` 2장. 제작 상황판은 감독 의자, 문의 접수는 호출 종을 GPT 이미지 2.5(ChatGPT 구독 Codex CLI)로 흰 바탕 한 판(2×2, 앞 8장 판을 생김새 참고로 넣음)에 후보 넷과 함께 굽고 `tools/펠트_흰바탕오리기.py --판=2x2`로 오려 긴 변 440px로 줄였다. 후보였던 영화 카메라는 자막 검사의 필름과, 봉투는 고객 관리의 우체통과 겹쳐 뺐다(원판·지시문·오린 원본은 `Documents/synk-vendor/maker-felt/`의 `판2`). [설계](../../../../docs/디자인/워크스페이스_시그널/README.md#maker-tools-v13-20261020)

diff --git a/docs/디자인/워크스페이스_시그널/README.md b/docs/디자인/워크스페이스_시그널/README.md
@@ -362,9 +362,9 @@ node --test tools/company-messenger/tests/*.test.mjs
   - 「도는 때」는 서버 코드 값만 쓴다: 게시 성과 · 링크 · 납품 점검 1분, 완성본 가져오기 5초, 주간 정리 매주 월요일.
 - **도구 한 장:** 자막 검사(01 넣기 → 02 결과 계기판 · 줄 목록 → 03 받기)와 승인 제작 자료(검색 + 종류 분할 캡슐 → 카드 격자 3열 → 외부 자료 1px 줄)다. 승인 자료의 설명 · 사용 기준은 카드 안에서 펼친다.
 - **걷은 것:** 크림·파스텔 상자, 펠트 질감 바탕, 분홍 펠트 하위 탭, 내부 번호(「게시·운영 1~9번 … 10번은 이 상태 화면」), 화면의 「~합니다」. 꾸미지 않은 기본 파일 단추 4곳은 파일 놓기 칸(`mtDrop`)으로 바꿨다.
-- **펠트 물건 8개:** 로켓 · 탭 단 수첩 · 톱니바퀴 · 체크리스트 판 · 자막 단 필름 · 부품 상자 · 팔레트 · 청진기. 10판 · PULSE · 12판 물건과 겹치지 않게 골랐다.
+- **펠트 물건 8개:** 로켓 · 탭 단 수첩 · 신호등 · 체크리스트 판 · 자막 단 필름 · 부품 상자 · 팔레트 · 청진기. 10판 · PULSE · 12판 물건과 겹치지 않게 골랐다.
   - GPT 이미지 2.5로 한 판에 굽고 오려, `tools/company-messenger/public/assets/maker-felt-<탭>.webp`(긴 변 440px, 31~53KB)에 두었다. 메신저 공개 폴더라 허용 목록이 필요 없다. 원판·지시문은 `Documents/synk-vendor/maker-felt/`에 있다.
-  - 톱니는 「설정」으로 읽힌다는 의견이 있어, 계기 바늘 · 신호등으로 다시 굽기 후보로 남겼다.
+  - 처음 구운 자동화 상태의 톱니바퀴는 「설정」으로 읽혀, 10-21 신호등으로 다시 구웠다(유호님 「톱니펠트그림은 다시 굽고」). 신호등 · 계기 바늘 · 신호탑 · 제어반을 한 판(2×2)에 구워 신호등을 골랐다. 작게 보여도 바로 읽히고, 세 등 색(위부터 코랄 · 버터 · 초록)이 계기판 점 색(멈춤 · 직접 확인 · 이상 없음)과 같다. 제어반은 손잡이가 조이스틱처럼 나와 뺐다. 세로로 긴 물건이라 톱니에 맞춘 자동화 전용 포스터 칸 넷을 걷고 다른 탭과 같은 기본 칸을 쓴다(`maker-tools.css`). 위 전후 사진 · 휴대폰 사진의 자동화 상태 칸도 신호등 판으로 바꿨다. 검수: 아르곤 P3 1(반영 — 700px 줄의 쓸모없어진 두 속성) · Fable 「보여도 됨」(P3 2 — 문서 줄은 반영, 넓은 화면 오른쪽 여백 60px는 그대로).
 - **글:** 화면 글은 새 렌더와 함께 해요체로 썼다(11판 원칙 — 상태는 두세 단어, 오류는 원인과 다음 행동, 단추는 동사 하나). 서버가 주는 글은 옛→새 짝 맵(서버 a·b·c — 서버 12파일 + 시험 14파일, 652곳)으로 바꿨다. 백엔드라 GPT 검수 범위를 트랙에 남겼다.
 - **만드는 방식:**
   - 공통 도우미(`mtHead` · `mtMeter` · `mtPoster` · `mtNow` · `mtBlock` · `mtSec` · `mtDrop` …)는 `maker-tools.js` 앞 절반에 있다. 시험은 「상태와 화면 바꾸기」 표시줄 앞까지 잘라 읽는다.
